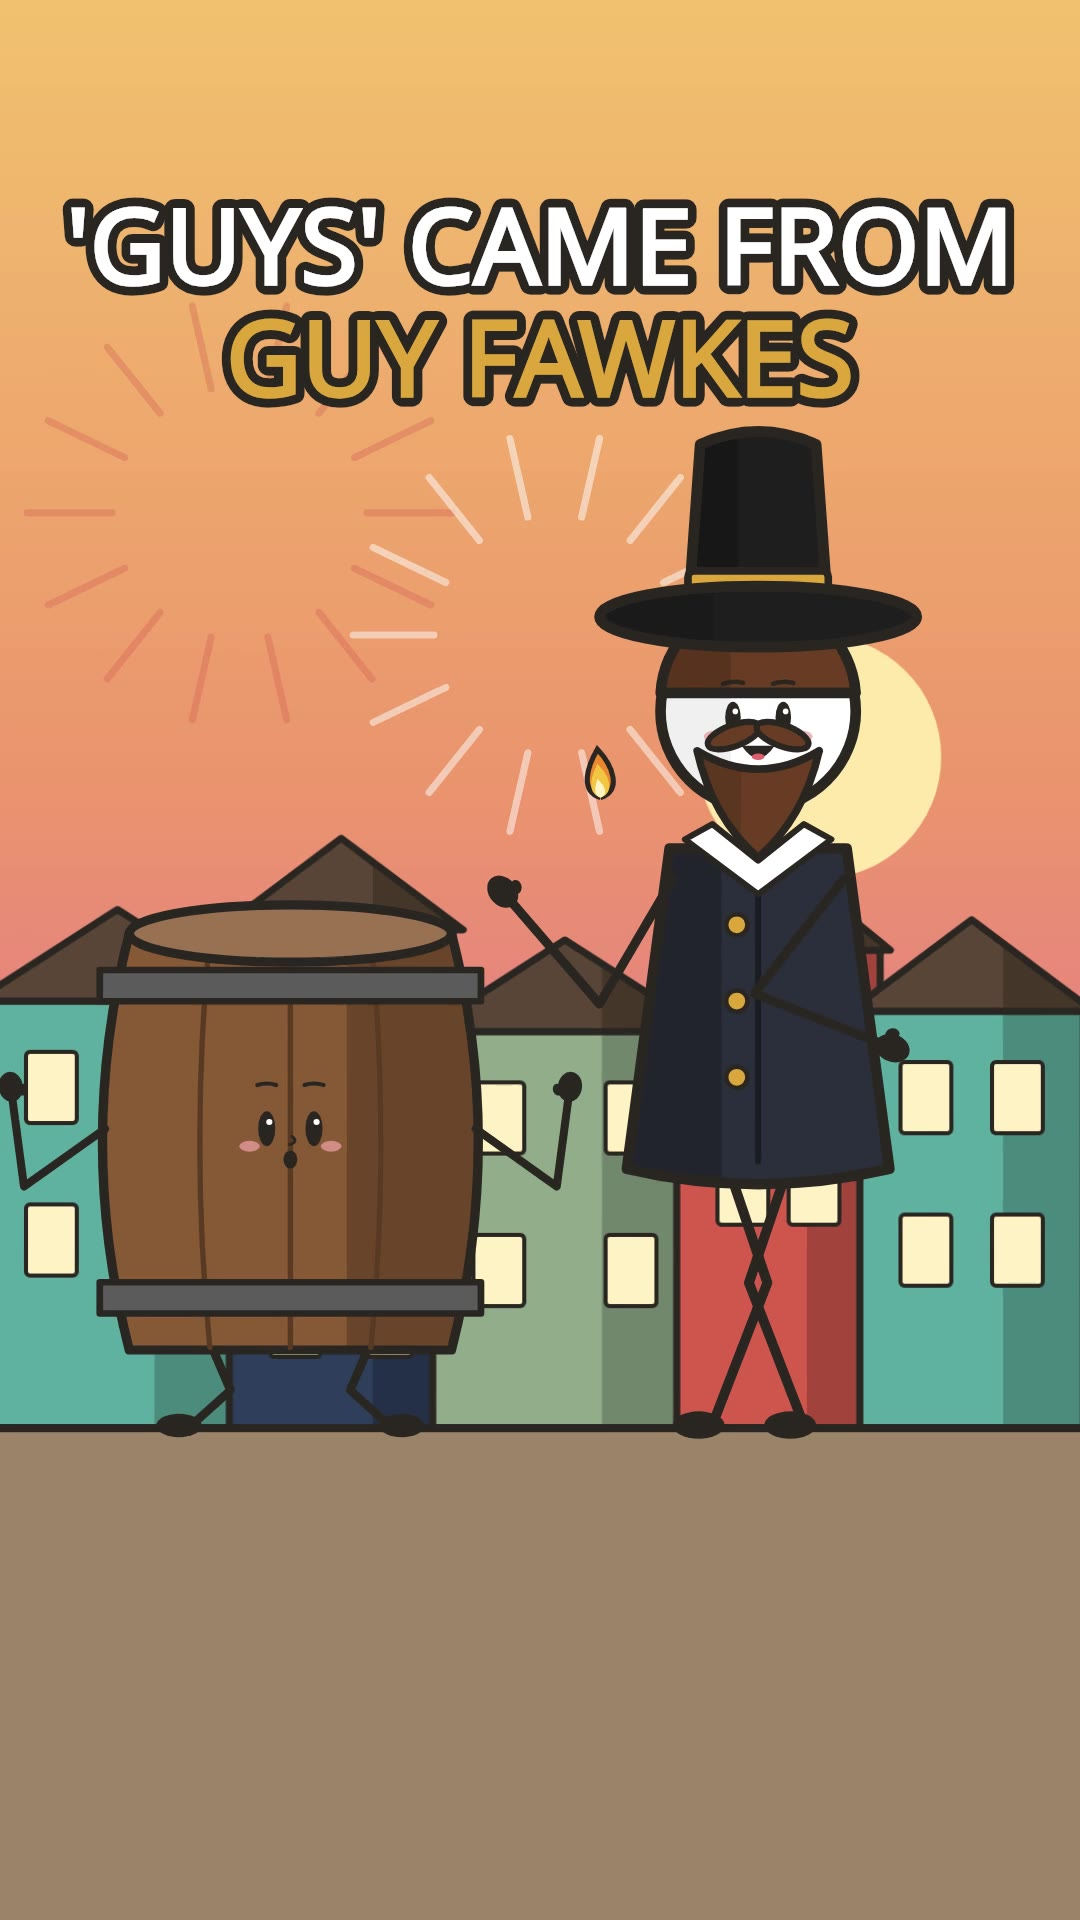
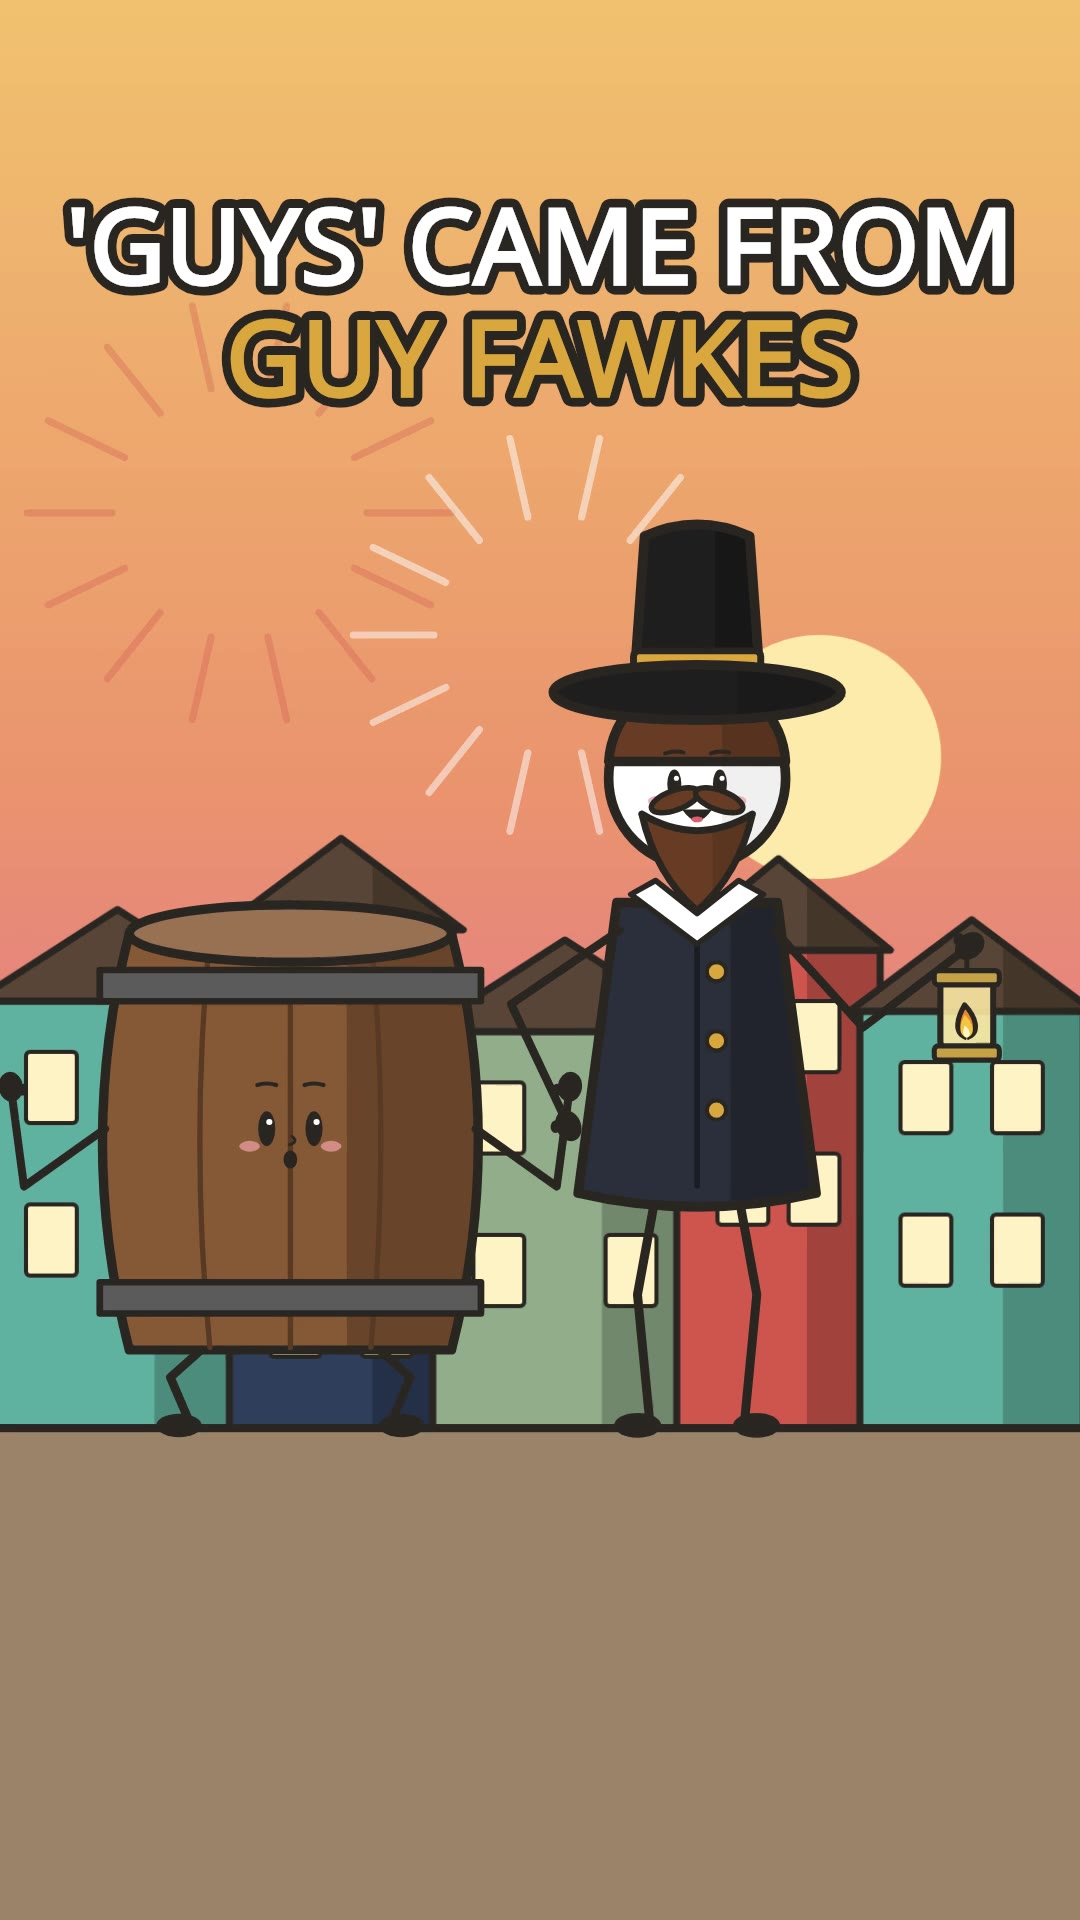
Fix character limbs + detail pass on the Guy Fawkes Short
- Limbs: IK picks the outward bend (knees/elbows never fold across the body), elbows
  prefer hanging down, near-straight standing legs, front-facing walk that never crosses,
  mirrored 'cheer' pose fixed, relaxed 'down' arms, human poses scaled to arm length
- scripts/cast_sheet.mjs: every character standing/walking/posed for QA
- Guy Fawkes Short: lantern held in his hand, lighter arches so legs read, barrels only at
  the cellar edges, stitched straw dummy instead of a person on the bonfire, barrel and
  Fawkes fully in frame, flat dictionary card clear of the caption
- CLAUDE.md: detail-check list in the QA stage

Claude-Session: https://claude.ai/code/session_01781pAoC31jwJRVjELkZWSA

Changed region(s): [[0.4583, 0.2188, 0.9472, 0.75], [0.1528, 0.6875, 0.2139, 0.75], [0.3056, 0.7188, 0.3972, 0.75]]

diff --git a/CLAUDE.md b/CLAUDE.md
@@ -36,6 +36,16 @@ own visual + SFX. No on-screen host: Style 5 object characters + painted sets.
 7. **Test ONE change per video** and log it in the results table below; keep what moves the number.
    80% is top-tier for Shorts, so expect to climb towards it over several videos, not in one jump.
 
+## Detail check (look at full-size frames from final.mp4, every beat, before handing over)
+
+- Limbs: legs never crossed (X), knees and elbows bend outward, elbows hang down; walking feet stay on their own side.
+- Hands: a held prop touches the hand (lantern handle in the palm), nothing floats.
+- Contrast: thin black limbs never sit on a dark background (light the arches/doorways behind characters).
+- Text: titles never cover faces or hats, including during camera push-ins; labels stay attached to their boxes.
+- Framing: nothing important cut at the frame edge after the camera zoom.
+- Taste: effigies, injuries or danger read clearly as cartoon objects (stitched dummy, not a person).
+- Props and sets: no clutter overlapping a character's face or the main prop.
+
 ## Who does what
 
 The /yt-* skills (`.claude/skills/yt-*`, from github.com/Jakeschincariol/youtube-agent-skill, MIT)
@@ -50,7 +60,7 @@ replace the planning, writing, packaging and analytics agents. The video/animati
 | 5. Voice | ours | `python3 audio/voice_kokoro.py episodes/<slug>` |
 | 6. Animation | ours | `python3 -m timesketch.timing`, `node render.mjs <ep> still`, then `video` |
 | 7. Sound | ours | `python3 audio/mix.py episodes/<slug>`, then ffmpeg mux |
-| 8. QA | `python3 -m timesketch.qa <ep>` + a look at the stills | full decode, format, length, frame-1 gates, motion, hook timing, beat length, SFX, loop, black edges, levels, clipping -> qa.json |
+| 8. QA | `python3 -m timesketch.qa <ep>` + `node scripts/cast_sheet.mjs <ep> cast.png` + the detail check below | full decode, format, length, frame-1 gates, motion, hook timing, beat length, SFX, loop, black edges, levels, clipping -> qa.json |
 | 9. Title / thumbnail / description | `/yt-package` + `/yt-seo` | `title.py` lint; thumbnail = a frame from the hook, <= 3 words, different from the title. No chapters (Shorts). |
 | 10. Upload + publish | `publisher` agent -> on the Mac: Claude in Chrome fills YouTube Studio from `--manual`'s upload pack and schedules it (confirm first), or `python3 -m timesketch.publish <ep> --make` (Make.com scenario via a Google-Drive-synced `MAKE_OUTBOX`, see docs/MAKE.md); `--sync` records video IDs; `--manual` = Studio upload pack | No Google Cloud. Preflight, next free 07:00 / 17:00 UK slot, Education, not made for kids. Always confirm with Rakesh before queueing. |
 | 11. Analytics | YouTube Studio CSV exports in `analytics/` -> `/yt-retention` + `/yt-audit` | Feed the Studio retention CSV after 48 h, update the results log, ONE change per video. |
